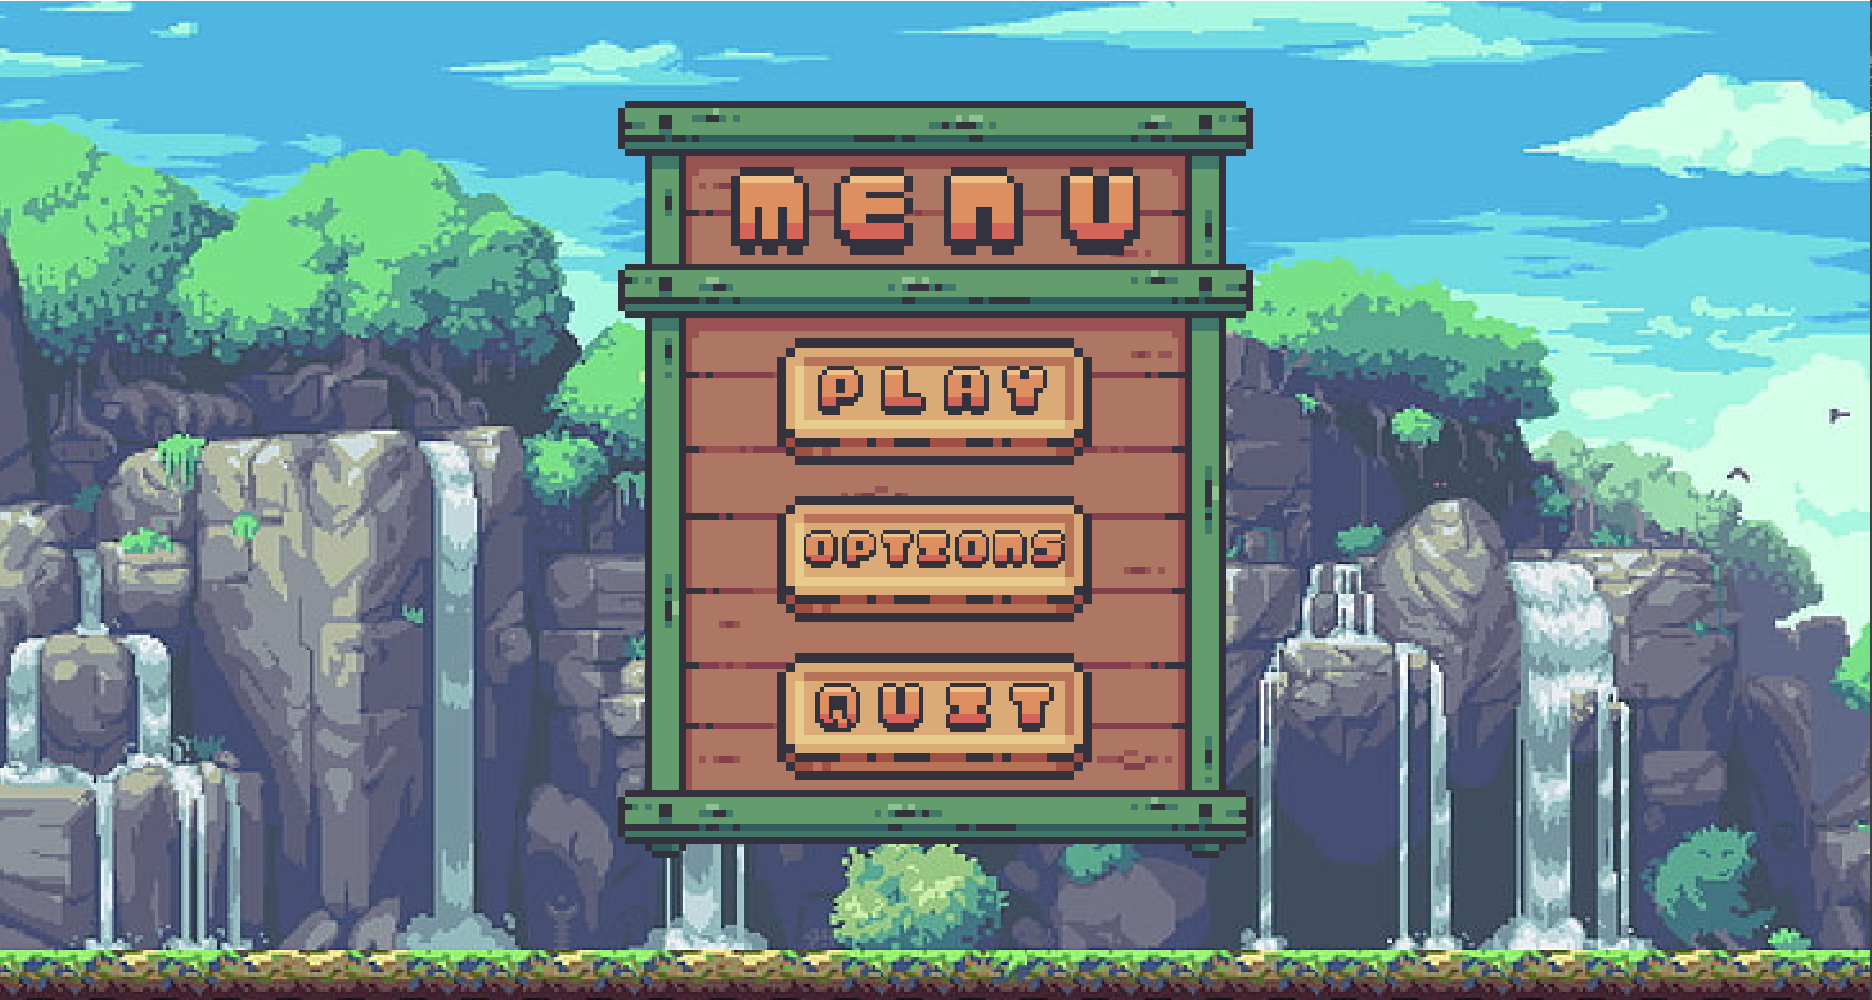
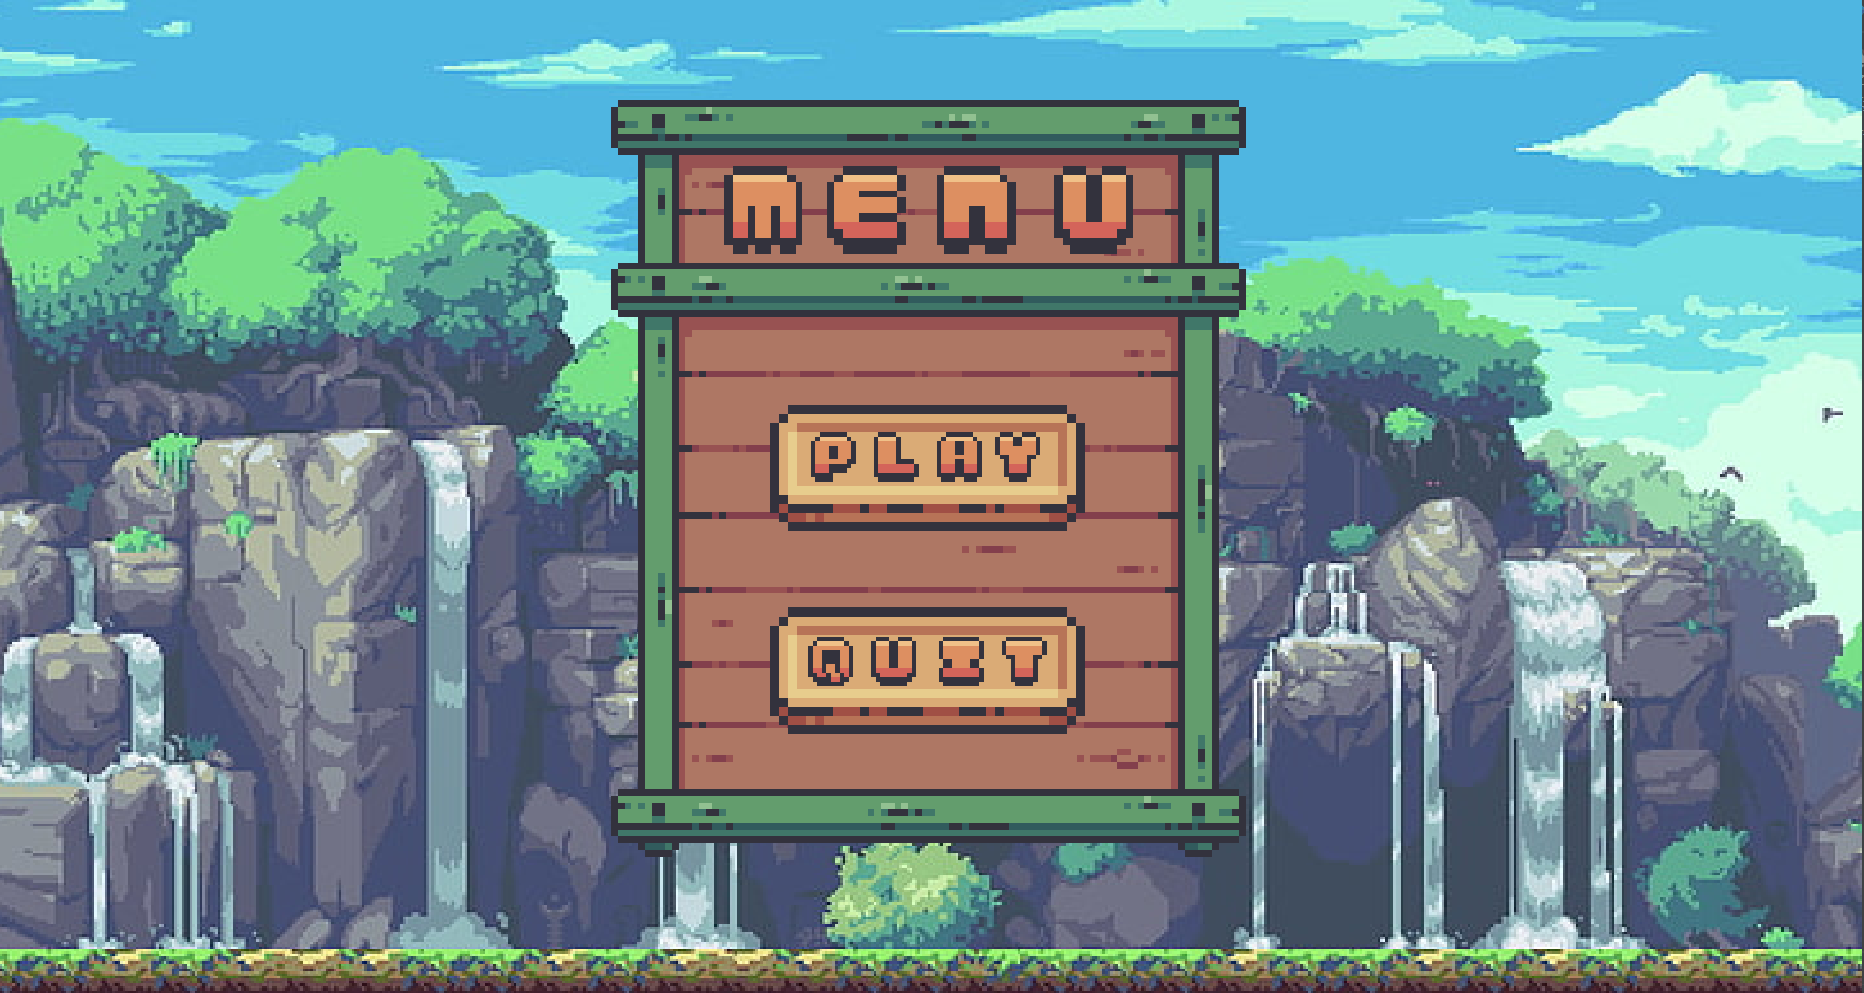
chore: fix player height, menu game,...

diff --git a/src/gamestates/Playing.java b/src/gamestates/Playing.java
@@ -10,12 +10,11 @@ import java.awt.image.BufferedImage;
 import entities.EnemyManager;
 import entities.Player;
 import level.LevelManager;
-import level.LevelManager;
 import main.Game;
 import ui.GameOverOverlay;
 import ui.PauseOverlay;
 import utilz.LoadSave;
-import static utilz.Constant.Environment.*;
+
 
 public class Playing extends State implements Statemethods {
     private Player player;
@@ -27,8 +26,8 @@ public class Playing extends State implements Statemethods {
 
     private boolean paused = false;
 
-    private int xLvlOffset;
-    private int leftBorder = (int) (0.2 * Game.GAME_WIDTH);
+    private int xLvlOffset; // add distance to draw the view when player move
+    private int leftBorder = (int) (0.2 * Game.GAME_WIDTH); // the line which player is beyond
     private int rightBorder = (int) (0.8 * Game.GAME_WIDTH);
     private int lvlTilesWide = LoadSave.GetLevelData()[0].length;
     private int maxTilesOffset = lvlTilesWide - Game.TILES_IN_WIDTH;
@@ -65,7 +64,7 @@ public class Playing extends State implements Statemethods {
     private void initClasses() {
         levelManager = new LevelManager(game);
         enemyManager = new EnemyManager(this);
-        player = new Player(200, 200, (int) (64 * Game.SCALE), (int) (40 * Game.SCALE), this);
+        player = new Player(200, 200, (int) (64 * Game.SCALE), (int) (64 * Game.SCALE), this);
         player.loadlvlData(levelManager.getcurrentLevel().getLevelData());
         pauseOverlay = new PauseOverlay(this);
         gameOverOverlay = new GameOverOverlay(this, "Game over");

diff --git a/src/entities/Player.java b/src/entities/Player.java
@@ -29,8 +29,8 @@ public class Player extends SuperEntity {
     private boolean left, up, right, down, jump;
     private float playerspeed = 1.0f * Game.SCALE;
     private int[][] lvlData;
-    private float xDrawOffset = 21 * Game.SCALE; // player to corner off set
-    private float yDrawOffset = 4 * Game.SCALE;
+    private float xDrawOffset = 28 * Game.SCALE; // player to corner off set
+    private float yDrawOffset = 28 * Game.SCALE;
     private float airSpeed = 0f;
     private float gravity = 0.04f * Game.SCALE;
     private float jumpSpeed = -2.25f * Game.SCALE;
@@ -74,7 +74,7 @@ public class Player extends SuperEntity {
         }
         updatePostion();
         updateAttackBox();
-        //updateHitBox();
+//        updateHitBox();
         if(attacking){
             checkAttack();
         }
@@ -121,7 +121,7 @@ public class Player extends SuperEntity {
 
     private void drawAttackBox(Graphics g, int lvlOffset) {
         g.setColor(Color.RED);
-        g.drawRect((int)attackBox.x-lvlOffset -5,(int) attackBox.y+lvlOffset,(int) attackBox.width, (int)attackBox.height);
+        g.drawRect((int)attackBox.x-lvlOffset,(int) attackBox.y,(int) attackBox.width, (int)attackBox.height);
     }
 
     private void drawHealthBar(Graphics g) {
@@ -167,8 +167,6 @@ public class Player extends SuperEntity {
         moving = false;
         if (jump)
             jump();
-        //if (!left && !right && !inAir)
-        //return;
         if (!inAir)
             if ((!left && !right) && (right && left))
                 return;

diff --git a/src/gamestates/Menu.java b/src/gamestates/Menu.java
@@ -11,7 +11,7 @@ import utilz.LoadSave;
 
 public class Menu extends State implements Statemethods {
 
-    private MenuButton[] buttons = new MenuButton[3];
+    private MenuButton[] buttons = new MenuButton[2];
     private BufferedImage backgroundImg, backgroundImgPink;
     private int menuX, menuY, menuWidth, menuHeight;
 
@@ -33,9 +33,11 @@ public class Menu extends State implements Statemethods {
     }
 
     private void loadButtons() {
-        buttons[0] = new MenuButton(Game.GAME_WIDTH / 2, (int) (150 * Game.SCALE), 0, Gamestate.PLAYING);
-        buttons[1] = new MenuButton(Game.GAME_WIDTH / 2, (int) (220 * Game.SCALE), 1, Gamestate.OPTIONS);
-        buttons[2] = new MenuButton(Game.GAME_WIDTH / 2, (int) (290 * Game.SCALE), 2, Gamestate.QUIT);
+        // button: play
+        buttons[0] = new MenuButton(Game.GAME_WIDTH / 2, (int) (180 * Game.SCALE), 0, Gamestate.PLAYING);
+//        buttons[1] = new MenuButton(Game.GAME_WIDTH / 2, (int) (220 * Game.SCALE), 1, Gamestate.OPTIONS);
+        // button: quit
+        buttons[1] = new MenuButton(Game.GAME_WIDTH / 2, (int) (270 * Game.SCALE), 2, Gamestate.QUIT);
     }
 
     @Override

diff --git a/src/utilz/LoadSave.java b/src/utilz/LoadSave.java
@@ -28,6 +28,8 @@ public class LoadSave {
     public static final String PLAYING_BG_IMG = "playing.jpg";
     public static final String ENEMY_SPRITES ="snake.png";
     public static final String HEART_HEALTH = "heart.png";
+
+    // get snake position in map
     public static ArrayList<Enemy> getSnakes(){
         BufferedImage img = GetSpriteAtlas(LEVEL_ONE_STRUCTURE);
         ArrayList<Enemy> list = new ArrayList<>();
@@ -50,6 +52,8 @@ public class LoadSave {
         return list;
 
     }
+
+    // get image
     public static BufferedImage GetSpriteAtlas(String fileName) {
         BufferedImage img = null;
         InputStream is = LoadSave.class.getResourceAsStream("/" + fileName);
@@ -83,11 +87,11 @@ public class LoadSave {
                     //lay trong khaong ở bound của red(khoảng 45)
                     value = 0;
                 }
-                System.out.printf("%5d", value);
+//                System.out.printf("%5d", value);
 
                 lvlData[j][i] = value;
             }
-            System.out.println("");
+//            System.out.println("");
         }
         return lvlData;
     }

diff --git a/src/utilz/Constant.java b/src/utilz/Constant.java
@@ -25,13 +25,6 @@ public class Constant {
             };
         }
     }
-    public static class Environment{
-        public static final int BIG_CLOUD_WIDTH_DEFAULT = 448;
-        public static final int BIG_CLOUD_HEIGHT_DEFAULT = 101;
-
-        public static final int BIG_CLOUD_WIDTH = (int) (BIG_CLOUD_WIDTH_DEFAULT* Game.SCALE);
-        public static final int BIG_CLOUD_HEIGHT = (int) (BIG_CLOUD_HEIGHT_DEFAULT* Game.SCALE);
-    }
     public static class UI {
         public static class Buttons {
             public static final int B_WIDTH_DEFAULT = 140;

diff --git a/src/main/GameWindow.java b/src/main/GameWindow.java
@@ -21,7 +21,7 @@ public class GameWindow {
             public void windowGainedFocus(WindowEvent e) {}
             @Override
             public void windowLostFocus(WindowEvent e) {
-                System.out.println("Focus Lost");
+//                System.out.println("Focus Lost");
                 gamePanel.getGame().widowFocusLost();
             }
         });

diff --git a/src/entities/SuperEntity.java b/src/entities/SuperEntity.java
@@ -24,7 +24,7 @@ public abstract class SuperEntity {
     protected void drawHitBox(Graphics g, int x){
         //debug hitbox
         g.setColor(Color.PINK);
-        g.drawRect((int)hitBox.x,(int) hitBox.y, (int)hitBox.width, (int)hitBox.height);
+        g.drawRect((int)hitBox.x-x,(int) hitBox.y, (int)hitBox.width, (int)hitBox.height);
     }
 
 

diff --git a/src/main/Game.java b/src/main/Game.java
@@ -87,9 +87,6 @@ public class Game implements Runnable {
     }
     @Override
     public void run() {
-//        while(true){
-//        update();
-//        gamePanel.repaint();}
         double timePerFrame = 1000000000.0 / FPS_SET;
         double timePerUpdate = 1000000000.0 / UPS_SET;
         long previousTime =System.nanoTime();

diff --git a/src/ui/MenuButton.java b/src/ui/MenuButton.java
@@ -43,6 +43,7 @@ public class MenuButton {
 
     }
 
+    // when hover the button
     public void update (){
         index = 0;
         if (mouseOver) index = 1;

diff --git a/README.md b/README.md
@@ -8,9 +8,11 @@
     - [Installation](#installation)
     - [Contributing](#contributing)
 - [About this project](#about-project)
+    - [UML](#uml)
     - [Game Thread](game-thread)
     - [Character Animations](#character-animation)
     - [Collision Detection](#collision)
+    - [Game State](#game-state)
 
 ## Description <a name="description"></a>
 A simple action game which can move character (run, jump, attack) between point in the environment 
@@ -40,6 +42,7 @@ A simple action game which can move character (run, jump, attack) between point 
 ### 2. Dependencies <a name="dependencies"></a>
 - Programming language: Java
 - JDK: 17
+- Development environment: Intellij IDEA
 ### 3. Installation <a name="installation"></a>
 ```
 # Clone this repository
@@ -54,7 +57,9 @@ $ git clone https://github.com/hoc2000/java_game_platformer.git
 5. Create a new Pull Request
 
 ## About this project <a name="about-project"></a>
-### a. Game Thread <a name="game-thread"></a>
+### a. UML <a name="uml"></a>
+![uml](./uml.png)
+### b. Game Thread <a name="game-thread"></a>
 - ```Game loop```: A game loop runs continuously during gameplay. Each turn of the loop, it processes user input without blocking, updates the game state, and renders the game. 
 - ```FPS``` (render/frames):
     - Draw the games scene, player, enemies,..
@@ -65,5 +70,6 @@ $ git clone https://github.com/hoc2000/java_game_platformer.git
     - ``` repaint```: call method paintComponent()
 - Time system: We used nano time ```System.nanoTime()``` (returns the current value of the running JVM's high-resolution time source in nanoseconds) to calculate the time restriction. We used "Delta/Accumulator" method
 (Read more in [Understanding Delta Time](https://drewcampbell92.medium.com/understanding-delta-time-b53bf4781a03))
-### b. Character Animations <a name="character-animation"></a>
-### c. Collision Detection <a name="collision"></a>
+### c. Character Animations <a name="character-animation"></a>
+### d. Collision Detection <a name="collision"></a>
+### e. Game State <a name="game-state"></a>
